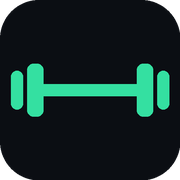
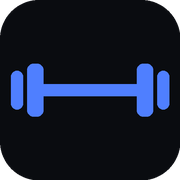
Switch palette to indigo-blue accent and add card depth for a more premium look
Replaces the emerald accent with a refined indigo-blue across CSS variables,
app icons, and favicon for visual consistency. Adds subtle box-shadows to
cards/stats/hero/sheet for depth. Verified across Home, Push, Suivi, and
Coach with representative data before committing.

Changed region(s): [[0.0556, 0.3333, 0.9444, 0.6667]]

diff --git a/index.html b/index.html
@@ -9,19 +9,19 @@
 <meta name="mobile-web-app-capable" content="yes">
 <meta name="apple-mobile-web-app-status-bar-style" content="black-translucent">
 <meta name="apple-mobile-web-app-title" content="Carnet">
-<meta name="theme-color" content="#0b0e13">
+<meta name="theme-color" content="#0a0c10">
 <link rel="manifest" href="manifest.json">
 <link rel="icon" href="icons/favicon.svg" type="image/svg+xml">
 <link rel="apple-touch-icon" href="icons/icon-180.png">
 <style>
   *, *::before, *::after { box-sizing: border-box; }
-  html, body { margin: 0; background: #0b0e13; }
+  html, body { margin: 0; background: #0a0c10; }
 
   :root {
-    --bg:#0b0e13; --surface:#141922; --surface2:#1b212c; --surface3:#242c39; --border:#2a3342;
-    --text:#eef1f5; --dim:#8b95a5; --faint:#5c6674;
-    --accent:#34e0a1; --accent-ink:#04241a; --accent-soft:rgba(52,224,161,.12);
-    --gold:#ffcf5c; --danger:#ff5d6c; --danger-soft:rgba(255,93,108,.12); --violet:#9d7bff;
+    --bg:#0a0c10; --surface:#13161c; --surface2:#191d26; --surface3:#222733; --border:#262c38;
+    --text:#edeff3; --dim:#8a93a4; --faint:#586072;
+    --accent:#4f7fff; --accent-ink:#071029; --accent-soft:rgba(79,127,255,.14);
+    --gold:#f0b429; --danger:#f2555f; --danger-soft:rgba(242,85,95,.12); --violet:#a97bff;
     --mono: ui-monospace,"SF Mono","Roboto Mono",Menlo,monospace;
     --sans: -apple-system,BlinkMacSystemFont,"Segoe UI",Roboto,sans-serif;
   }
@@ -36,6 +36,10 @@
   button { font: inherit; color: inherit; background: none; border: none; cursor: pointer; }
   input, textarea { font-family: var(--mono); }
   @media (prefers-reduced-motion: reduce) { * { animation: none !important; transition: none !important; } }
+
+  .card, .ex, .check, .hero, .quickcard, .stat, .sheet {
+    box-shadow: 0 1px 2px rgba(0,0,0,.28), 0 4px 14px -6px rgba(0,0,0,.4);
+  }
 
   /* ---- entête ---- */
   header {
